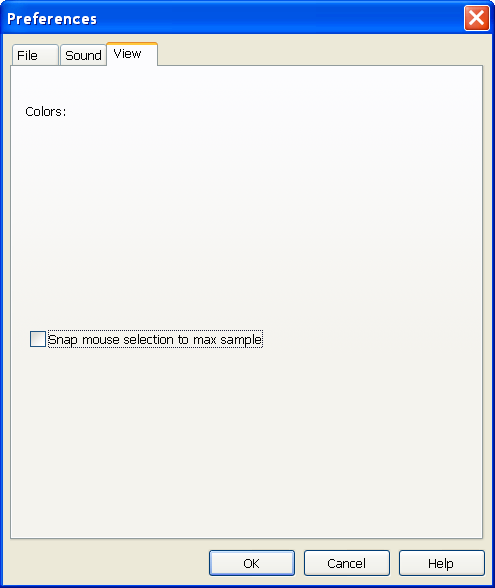
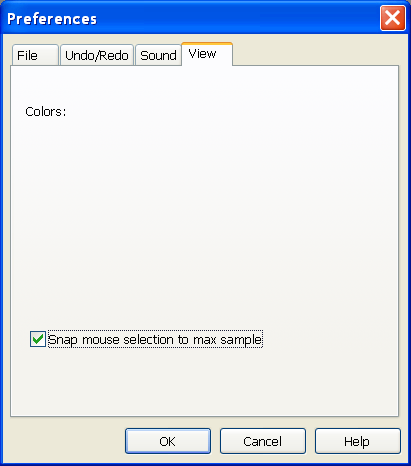
Changed files
Preferences" property sheet changes:
added Undo/Redo page

Changed region(s): [[0.0, 0.0, 1.0, 1.0], [0.0584, 0.5408, 0.5547, 0.6009], [0.0584, 0.691, 0.6423, 0.7511]]

diff --git a/hlp/html/Tools/tools_preferences.htm b/hlp/html/Tools/tools_preferences.htm
@@ -16,7 +16,7 @@ command (<a href="tools_menu.htm">Tools menu</a>)</B></h3>
 <P>Use this command to change user preferences.</P>
 
 <p>A property sheet dialog of 3 tabs is open.</p>
-<p><b>File</b> page:</p>
+<p><b><a name="File"></a>File</b> page:</p>
 <p><img border="0" src="../../images/PreferencesFileDialog.png"></p>
 <p>&quot;<b>Temporary file location</b>&quot; edit box allows to specify where to place 
 any temporary files the program creates.</p>
@@ -45,6 +45,19 @@ be saved in WAV files.</p>
 </ul>
 <p>&quot;<b>Max file cache size</b>&quot; - specifies upper limit of memory allocated to 
 cache the files. Default is 64 MB.</p>
+<p>&quot;<b>Open files from command line and drag-and-drop as</b>&quot; option chooses how 
+such files are opened:</p>
+<ul>
+  <li>Read only - the file(s) can only be viewed and listened to;</li>
+  <li>Direct edit - the file(s) will be opened for direct editing: any changes 
+  are saved immediately in the original copy;</li>
+  <li>Buffered - the file(s) will be opened in buffered mode: any changes will 
+  go to a temporary copy and commited to the permanent file only on
+  <a href="../File/hid_file_save.htm">File/Save command</a>.</li>
+</ul>
+<p><b><a name="Undo"></a>Undo/Redo</b> page:</p>
+<p>
+<img border="0" src="../../images/PreferencesUndoDialog.png"></p>
 <p><b>Undo</b> group:</p>
 <p>&quot;<b>Enable</b>&quot; - enables saving Undo information. This allows to return to 
 the state before editing. This option can also be changed in More Undo/Redo 
@@ -59,19 +72,9 @@ undone operation. This option can also be changed in More Undo/Redo submenu of
 <p>&quot;<b>Limit total size</b>&quot; - sets limit for the size of saved Redo 
 information.</p>
 <p>&quot;<b>Limit depth</b>&quot; - sets maximum number of Redo steps saved.</p>
-<p>&quot;Remember current selection in Undo/Redo&quot; - if checked, Undo/Redo operation 
+<p>&quot;<b>Remember current selection in Undo/Redo</b>&quot; - if checked, Undo/Redo operation 
 will also restore the selection.</p>
-<p>&quot;<b>Open files from command line and drag-and-drop as</b>&quot; option chooses how 
-such files are opened:</p>
-<ul>
-  <li>Read only - the file(s) can only be viewed and listened to;</li>
-  <li>Direct edit - the file(s) will be opened for direct editing: any changes 
-  are saved immediately in the original copy;</li>
-  <li>Buffered - the file(s) will be opened in buffered mode: any changes will 
-  go to a temporary copy and commited to the permanent file only on
-  <a href="../File/hid_file_save.htm">File/Save command</a>.</li>
-</ul>
-<p><b>Sound</b> page:</p>
+<p><b><a name="Sound"></a>Sound</b> page:</p>
 <p><img border="0" src="../../images/PreferencesSoundDialog.png"></p>
 <p>Playback group:</p>
 <p><b>Device</b> drop-down box selects an audio output device to use for 
@@ -85,7 +88,7 @@ recording. If &quot;<b>Microsoft Sound Mapper</b>&quot; is selected, a device se
 &quot;Sounds audio devices&quot; control panel applet will be used.</p>
 <p>&quot;<b>Buffer size</b>&quot; and &quot;<b>Number of buffers</b>&quot; select depth of buffering. Some low-end systems may require more buffers for steady audio 
 recording.</p>
-<p><b>View</b> page:</p>
+<p><b><a name="View"></a>View</b> page:</p>
 <p>
 <img border="0" src="../../images/PreferencesViewDialog.png"></p>
 

diff --git a/hlp/html/Edit/menu_edit.htm b/hlp/html/Edit/menu_edit.htm
@@ -135,7 +135,7 @@
 <TD width=495 height="35">Deletes all previous Redo data</TD>
 </tr>
 <tr>
-<TD width=179 height="35">Undo/Redo Options...</TD>
+<TD width=179 height="35"><a href="html/Edit/edit_undo_redo_options.htm">Undo/Redo Options...</a></TD>
 <TD width=495 height="35">Sets Undo/Redo options, such as maximum depth and size</TD>
 </tr>
 
